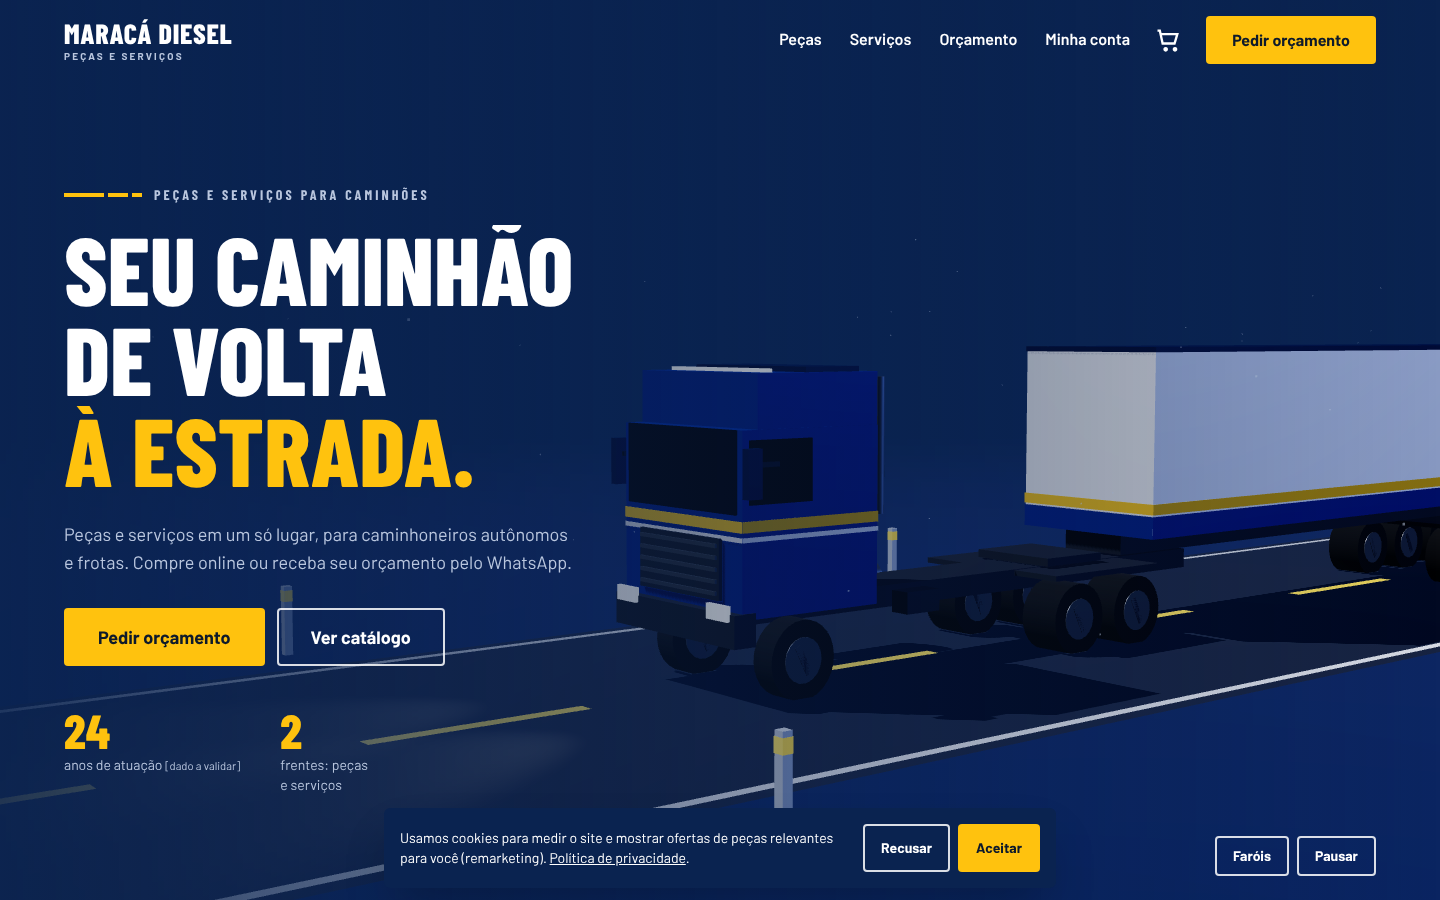
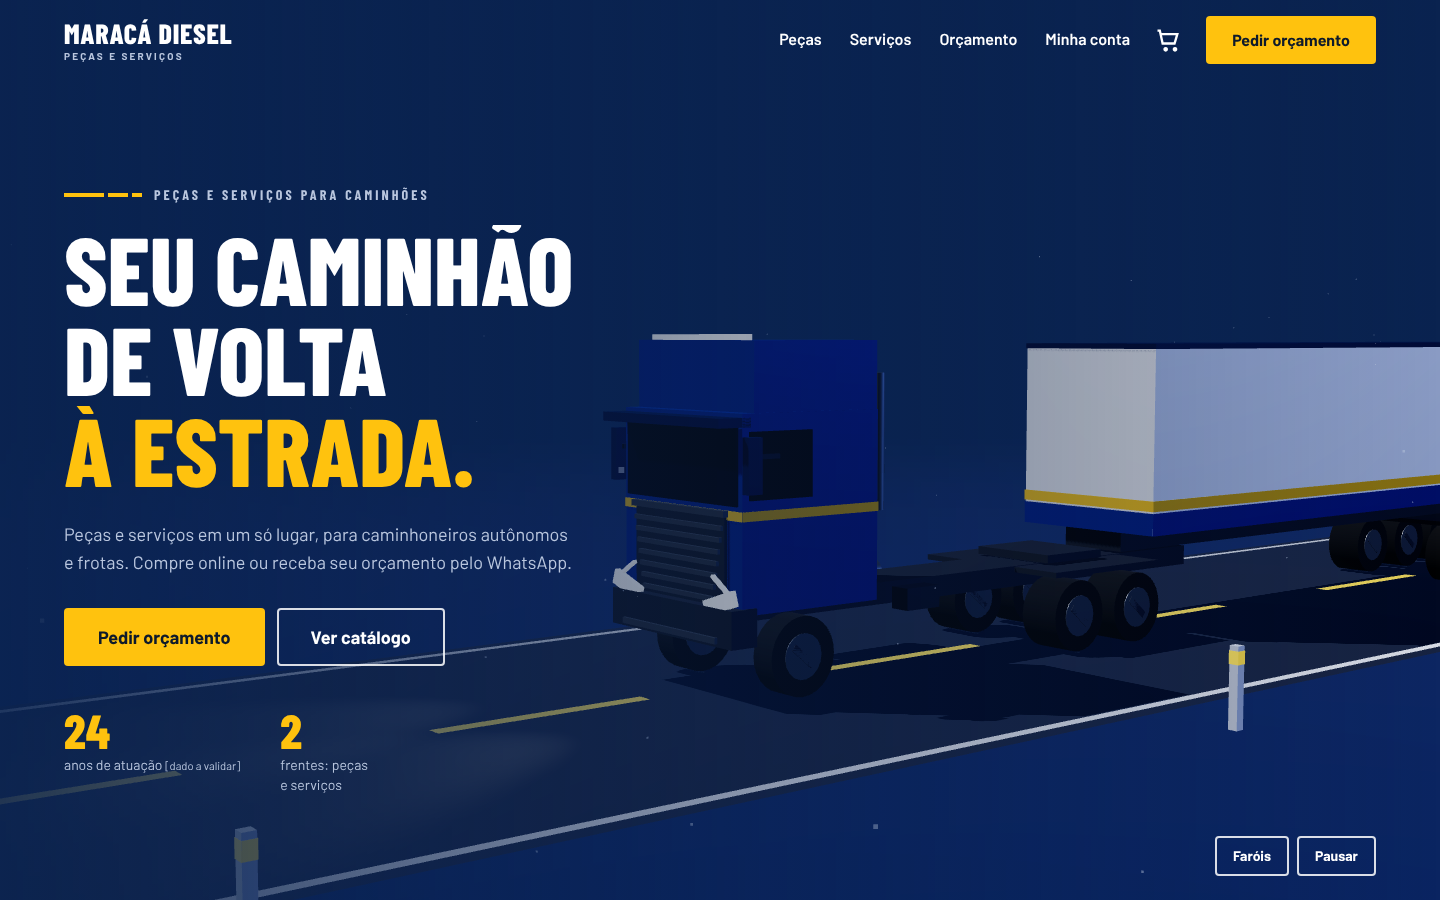
Hero 3D: frente estilo FH (grade alta, faróis em V) e tomada frontal na abertura; exclui remotion do tsconfig
Claude-Session: https://claude.ai/code/session_01R1SYe2ApBMoL2mmkdUVF6B

diff --git a/maraca-diesel/src/components/hero/cena.ts b/maraca-diesel/src/components/hero/cena.ts
@@ -3,12 +3,12 @@
 import * as T from 'three';
 import { animate, createAnimatable, utils } from 'animejs';
 
-export type Estado = { truckZ: number; vel: number; camX: number; camY: number; farol: number; scroll: number; pausado: boolean; mobile?: boolean };
+export type Estado = { intro: number; truckZ: number; vel: number; camX: number; camY: number; farol: number; scroll: number; pausado: boolean; mobile?: boolean };
 
 export function montaCena(canvas: HTMLCanvasElement, reduz: boolean) {
   let renderer: T.WebGLRenderer;
   try { renderer = new T.WebGLRenderer({ canvas, antialias: true, alpha: false }); } catch { return null; }
-  const estado: Estado = { truckZ: reduz ? 0 : -46, vel: reduz ? 0 : 1, camX: 0, camY: 0, farol: 0.35, scroll: 0, pausado: reduz };
+  const estado: Estado = { intro: reduz ? 1 : 0, truckZ: reduz ? 0 : -46, vel: reduz ? 0 : 1, camX: 0, camY: 0, farol: 0.35, scroll: 0, pausado: reduz };
   renderer.setPixelRatio(Math.min(window.devicePixelRatio, 2));
   renderer.shadowMap.enabled = true;
   renderer.shadowMap.type = T.PCFSoftShadowMap;
@@ -86,25 +86,31 @@ function roda(x: number, z: number, dupla: boolean) {
   g.position.set(x, 0.52, z); caminhao.add(g); rodas.push(g);
 }
 
-/* cabine (cab-over) */
+/* cabine cab-over estilo europeu (referência visual: frente de Volvo FH — grade alta, faróis em "V",
+   para-sol e teto alto). Sem logotipo ou elementos de marca registrada. */
 const zFrente = 4.6;
-caixa(2.5, 2.35, 2.25, azul, 0, 2.3, zFrente - 1.12);            /* corpo */
-caixa(2.46, 0.7, 2.0, azul, 0, 3.82, zFrente - 1.25);            /* teto alto */
-caixa(2.3, 0.08, 0.9, marinho, 0, 4.2, zFrente - 1.55);          /* defletor */
-caixa(2.3, 1.05, 0.06, vidro, 0, 2.95, zFrente + 0.005, false);  /* para-brisa */
-caixa(0.06, 0.8, 1.0, vidro, -1.255, 2.95, zFrente - 0.6, false);/* janela esq */
-caixa(0.06, 0.8, 1.0, vidro, 1.255, 2.95, zFrente - 0.6, false); /* janela dir */
-caixa(2.52, 0.14, 2.27, amarelo, 0, 2.28, zFrente - 1.12);        /* faixa amarela */
-caixa(2.52, 0.06, 2.27, branco, 0, 2.12, zFrente - 1.12);         /* filete branco */
-caixa(1.7, 0.78, 0.08, grafite, 0, 1.72, zFrente + 0.02);         /* grade */
-for (let i = 0; i < 5; i++) caixa(1.62, 0.05, 0.04, metal, 0, 1.42 + i * 0.15, zFrente + 0.07, false);
-caixa(2.56, 0.42, 0.34, grafite, 0, 1.0, zFrente - 0.02);          /* para-choque */
-const farolE = caixa(0.42, 0.2, 0.06, farolMat, -0.98, 1.22, zFrente + 0.17, false);
-const farolD = caixa(0.42, 0.2, 0.06, farolMat, 0.98, 1.22, zFrente + 0.17, false);
-caixa(2.0, 0.1, 0.1, farolMat, 0, 4.17, zFrente - 0.62, false);  /* barra de luz no teto */
+caixa(2.5, 2.5, 2.25, azul, 0, 2.38, zFrente - 1.12);             /* corpo */
+caixa(2.46, 0.95, 2.05, azul, 0, 4.05, zFrente - 1.22);           /* teto alto (Globetrotter) */
+caixa(2.5, 0.12, 0.5, marinho, 0, 3.52, zFrente + 0.12);          /* para-sol */
+caixa(2.34, 1.0, 0.06, vidro, 0, 2.98, zFrente + 0.005, false);   /* para-brisa */
+caixa(0.06, 0.85, 1.0, vidro, -1.255, 2.98, zFrente - 0.6, false);
+caixa(0.06, 0.85, 1.0, vidro, 1.255, 2.98, zFrente - 0.6, false);
+caixa(2.52, 0.12, 2.27, amarelo, 0, 2.36, zFrente - 1.12);         /* faixa amarela */
+/* grade alta trapezoidal: lâminas horizontais que alargam para baixo */
+caixa(1.9, 1.15, 0.06, grafite, 0, 1.78, zFrente + 0.02);
+for (let i = 0; i < 7; i++) caixa(1.5 + i * 0.06, 0.06, 0.05, metal, 0, 1.3 + i * 0.15, zFrente + 0.07, false);
+caixa(1.98, 0.08, 0.08, metal, 0, 2.38, zFrente + 0.06, false);    /* moldura cromada superior */
+caixa(2.58, 0.48, 0.4, grafite, 0, 0.98, zFrente);                  /* para-choque */
+caixa(2.0, 0.08, 0.06, metal, 0, 0.82, zFrente + 0.21, false);
+/* faróis em "V": bloco inclinado + DRL em linha */
+const farolE = caixa(0.6, 0.2, 0.08, farolMat, -1.0, 1.28, zFrente + 0.15, false); farolE.rotation.z = -0.32;
+const farolD = caixa(0.6, 0.2, 0.08, farolMat, 1.0, 1.28, zFrente + 0.15, false); farolD.rotation.z = 0.32;
+const drlE = caixa(0.42, 0.04, 0.06, farolMat, -1.02, 1.5, zFrente + 0.15, false); drlE.rotation.z = 0.55;
+const drlD = caixa(0.42, 0.04, 0.06, farolMat, 1.02, 1.5, zFrente + 0.15, false); drlD.rotation.z = -0.55;
+caixa(2.0, 0.1, 0.1, farolMat, 0, 4.55, zFrente - 0.3, false);    /* barra de luz no teto */
 [-1.42, 1.42].forEach(x => {                                       /* retrovisores */
-  caixa(0.06, 0.06, 0.5, grafite, x * 0.94, 3.05, zFrente - 0.25, false);
-  caixa(0.12, 0.62, 0.22, marinho, x, 2.95, zFrente - 0.02);
+  caixa(0.06, 0.06, 0.5, grafite, x * 0.94, 3.1, zFrente - 0.25, false);
+  caixa(0.12, 0.7, 0.22, marinho, x, 3.0, zFrente - 0.02);
 });
 caixa(0.5, 0.06, 0.6, grafite, -1.1, 1.0, zFrente - 1.6);          /* degrau */
 /* chassi e tanque */
@@ -198,9 +204,9 @@ cena.add(pontos);
     farolMat.emissiveIntensity = 0.6 + estado.farol * 2.4;
     fachos.forEach(s => s.intensity = estado.farol * 60);
     const m = estado.mobile;
-    const ox = m ? 0.2 : -8.4;
+    const ox = (m ? 0.2 : -8.4) * estado.intro;
     const raio = m ? 21 : 25;
-    const ang = (m ? 0.72 : 0.86) + estado.camX * 0.1;
+    const ang = ((m ? 0.72 : 0.86) * estado.intro) + estado.camX * 0.1;
     cam.position.set(Math.sin(ang) * raio + ox * 0.2, (m ? 5.2 : 4.6) + estado.camY * -0.5 - estado.scroll * 1.6, Math.cos(ang) * raio + (m ? 0 : 1));
     alvo.set(ox, m ? 2.2 : 2.4, (m ? -3.5 : -2.5) + estado.scroll * 6);
     cam.lookAt(alvo);

diff --git a/maraca-diesel/remotion/src/Caminhao.tsx b/maraca-diesel/remotion/src/Caminhao.tsx
@@ -1,6 +1,6 @@
 // Caminhão low-poly (mesma geometria do hero do site), em R3F para o Remotion.
-const B = ({ s, p, c, e = 0 }: { s: [number, number, number]; p: [number, number, number]; c: string; e?: number }) => (
-  <mesh position={p} castShadow receiveShadow><boxGeometry args={s} /><meshStandardMaterial color={c} emissive={e ? c : '#000'} emissiveIntensity={e} roughness={0.4} metalness={0.2} /></mesh>
+const B = ({ s, p, c, e = 0, r = 0 }: { s: [number, number, number]; p: [number, number, number]; c: string; e?: number; r?: number }) => (
+  <mesh position={p} rotation={[0, 0, r]} castShadow receiveShadow><boxGeometry args={s} /><meshStandardMaterial color={c} emissive={e ? c : '#000'} emissiveIntensity={e} roughness={0.4} metalness={0.2} /></mesh>
 );
 const Roda = ({ x, z, giro, dupla }: { x: number; z: number; giro: number; dupla?: boolean }) => (
   <group position={[x, 0.52, z]} rotation={[giro, 0, 0]}>
@@ -16,10 +16,13 @@ export const Caminhao = ({ giro, farol }: { giro: number; farol: number }) => {
       <B s={[2.46, 0.7, 2]} p={[0, 3.82, zF - 1.25]} c="#1746a2" />
       <B s={[2.3, 1.05, 0.06]} p={[0, 2.95, zF]} c="#0b1a33" />
       <B s={[2.52, 0.14, 2.27]} p={[0, 2.28, zF - 1.12]} c="#ffc20e" />
-      <B s={[1.7, 0.78, 0.08]} p={[0, 1.72, zF + 0.02]} c="#1c2433" />
+      {/* frente estilo FH: grade alta com lâminas, para-sol, faróis em V (sem logotipo) */}
+      <B s={[1.9, 1.15, 0.06]} p={[0, 1.78, zF + 0.02]} c="#1c2433" />
+      {[0, 1, 2, 3, 4, 5, 6].map((i) => <B key={i} s={[1.5 + i * 0.06, 0.06, 0.05]} p={[0, 1.3 + i * 0.15, zF + 0.07]} c="#9aa6b8" />)}
+      <B s={[2.5, 0.12, 0.5]} p={[0, 3.52, zF + 0.12]} c="#0a2350" />
       <B s={[2.56, 0.42, 0.34]} p={[0, 1.0, zF - 0.02]} c="#1c2433" />
-      <B s={[0.42, 0.2, 0.06]} p={[-0.98, 1.22, zF + 0.17]} c="#fff2c0" e={0.6 + farol * 2.4} />
-      <B s={[0.42, 0.2, 0.06]} p={[0.98, 1.22, zF + 0.17]} c="#fff2c0" e={0.6 + farol * 2.4} />
+      <B s={[0.6, 0.2, 0.08]} p={[-1.0, 1.28, zF + 0.15]} r={-0.32} c="#fff2c0" e={0.6 + farol * 2.4} />
+      <B s={[0.6, 0.2, 0.08]} p={[1.0, 1.28, zF + 0.15]} r={0.32} c="#fff2c0" e={0.6 + farol * 2.4} />
       <B s={[2.0, 0.1, 0.1]} p={[0, 4.17, zF - 0.62]} c="#fff2c0" e={0.6 + farol * 2.4} />
       <B s={[1.0, 0.3, 9.4]} p={[0, 1.05, -0.4]} c="#1c2433" />
       <B s={[2.55, 2.9, 12.2]} p={[0, 3.0, -9.4]} c="#f4f6fa" />

diff --git a/maraca-diesel/src/components/hero/Hero.tsx b/maraca-diesel/src/components/hero/Hero.tsx
@@ -24,7 +24,7 @@ export function Hero() {
       utils.set(pal, { y: '110%' }); utils.set(ent, { opacity: 0, y: 24 });
       const cont = { n: 0 };
       const tl = createTimeline({ defaults: { ease: 'outQuint' } });
-      if (est) tl.add(est, { truckZ: 0, duration: 2600, ease: 'outExpo' }, 0).add(est, { farol: [0.35, 1, 0.35], duration: 900, ease: 'inOutQuad' }, 1700);
+      if (est) tl.add(est, { truckZ: 0, duration: 2600, ease: 'outExpo' }, 0).add(est, { intro: 1, duration: 2200, ease: 'inOutCubic' }, 1400).add(est, { farol: [0.35, 1, 0.35], duration: 900, ease: 'inOutQuad' }, 1700);
       tl.add(ent[0], { opacity: 1, y: 0, duration: 700 }, 300)
         .add(pal, { y: '0%', duration: 900, delay: stagger(70) }, 450)
         .add([...ent].slice(1), { opacity: 1, y: 0, duration: 800, delay: stagger(110) }, 1000)
